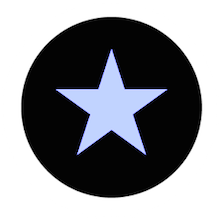
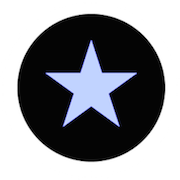
progress page requested changes complete

diff --git a/public/css/main.css b/public/css/main.css
@@ -47,8 +47,8 @@
 }
 
 .starButton, .habitStar{
-  width: 220px;
-   height: 220px;
+  width: 180px;
+   height: 180px;
    background-image: url(/public/img/spaceLogo.png);
    background-repeat: no-repeat;
    background-color: white;

diff --git a/views/content.html b/views/content.html
@@ -1,6 +1,6 @@
 <div class='auto content'>
   {{#if title}}
-    <h2>{{title}}</h2>
+    <h3>{{title}}</h3>
   {{/if}}
 
   <div>
